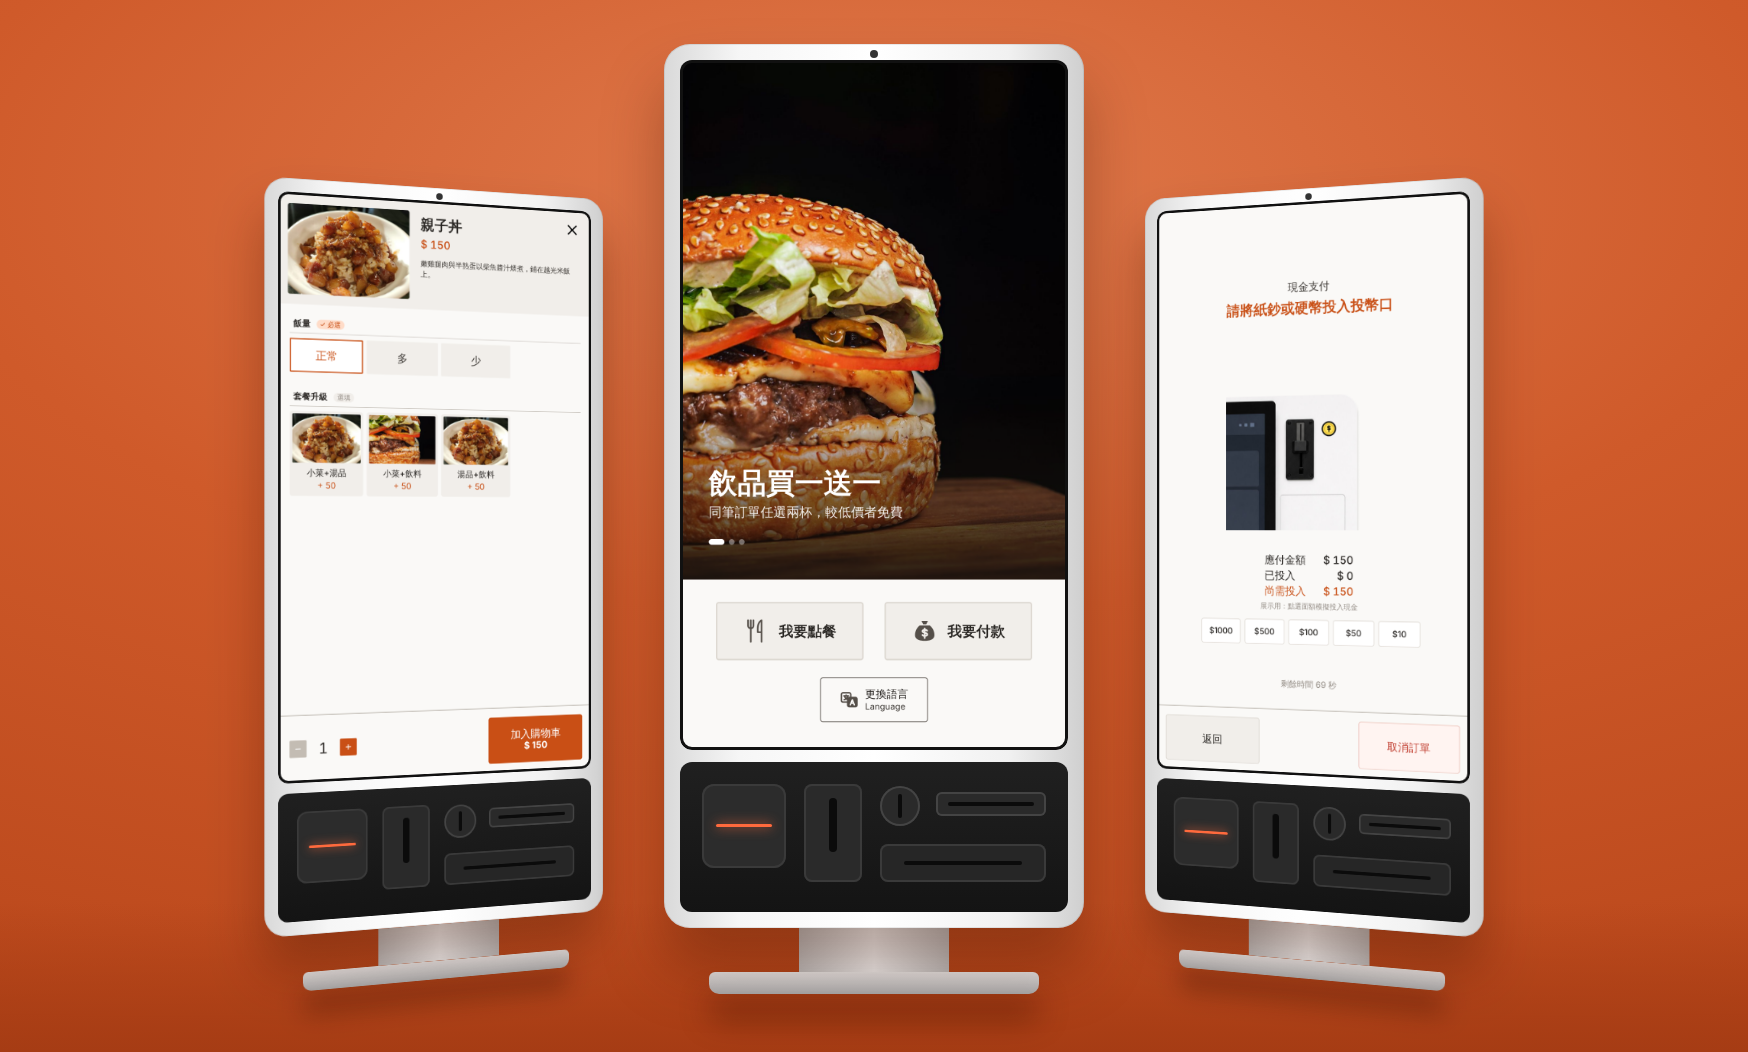
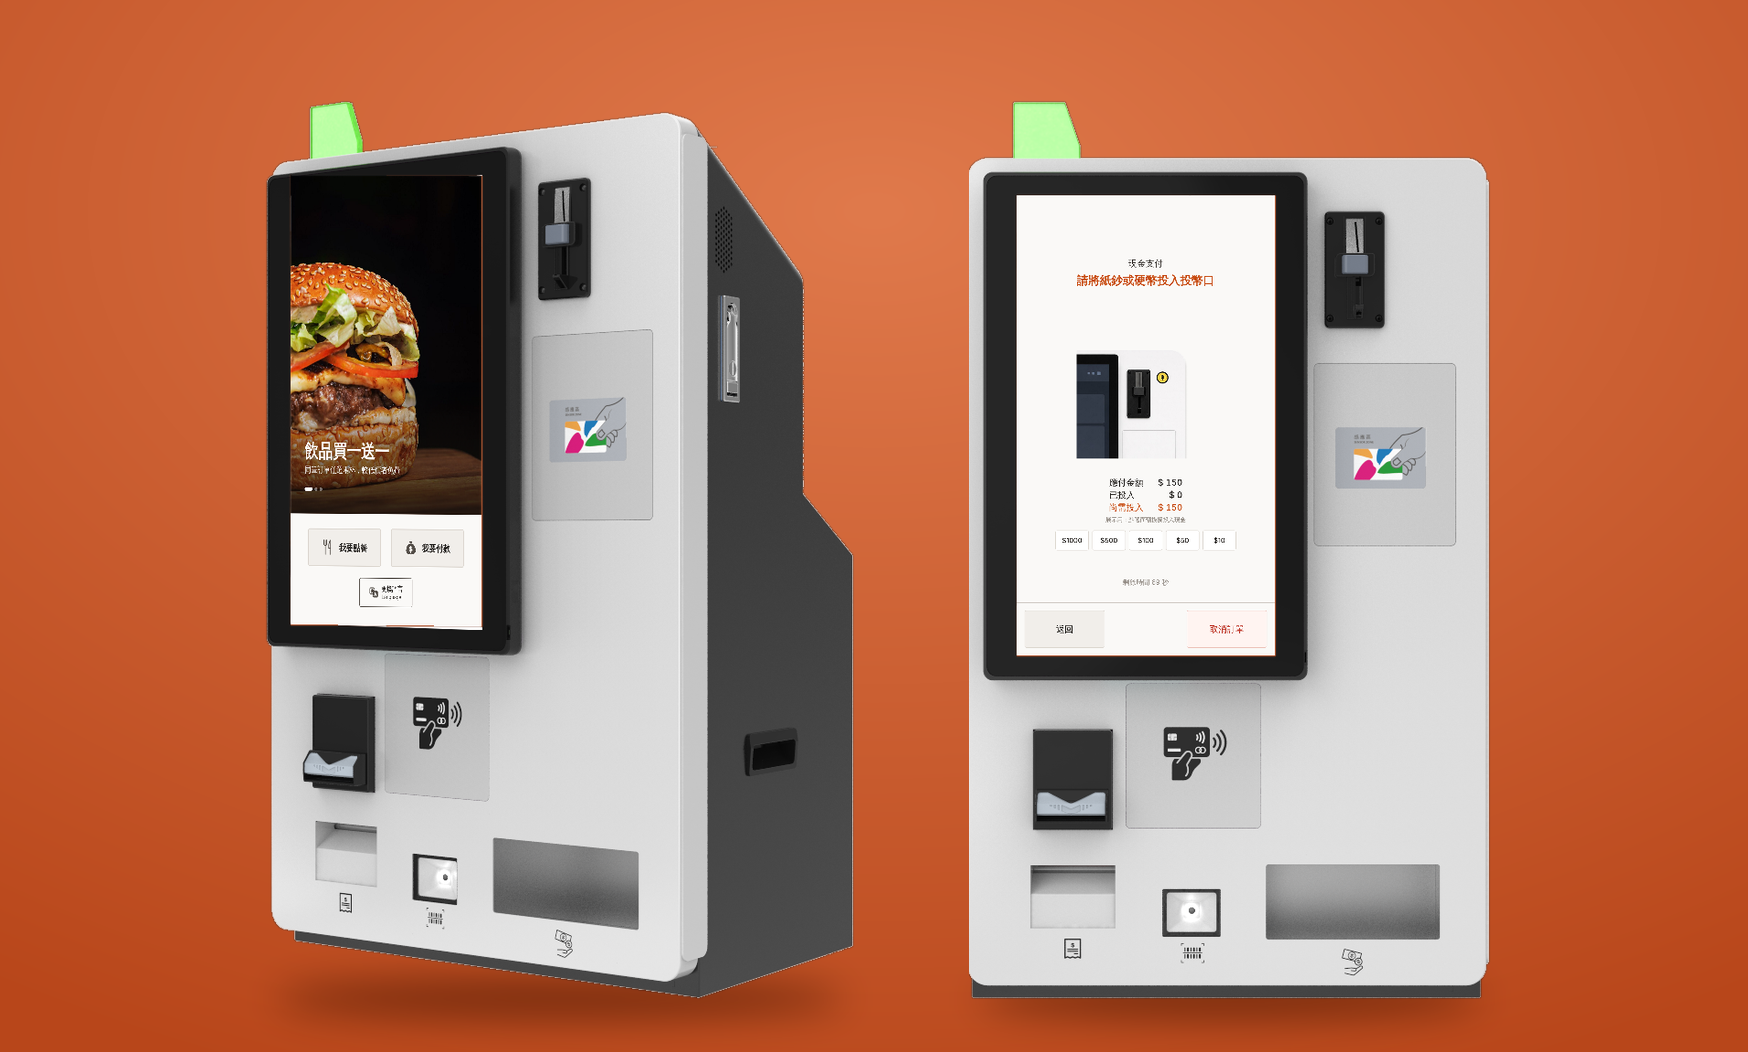
Covers: KIOSK uses the real countertop kiosk renders; KDS uses flat iPad-style tablets
Claude-Session: https://claude.ai/code/session_01NDe3p8GQ2HZ5WF8ct1RAfY

diff --git a/script.js b/script.js
@@ -11,7 +11,7 @@ function updateLanguageControls(){const toggle=document.querySelector('#language
 document.querySelector('#language-toggle')?.addEventListener('click',()=>setPortfolioLanguage(isEnglish()?'zh':'en'));
 const figmaURL='https://www.figma.com/design/S2sh6gtlIJ3JtDM7i3MEiN/portfolio?node-id=1654-18351';
 const repoURL='https://github.com/chi861008/researved-system';
-const visual=(name)=>name==='schedule'?'<div class="work-visual visual-schedule"><div class="arrow-circle" aria-hidden="true">↗</div><div class="schedule-mock"><div class="schedule-top"><strong>Weekly schedule</strong><span>October / 2026　↗</span></div><div class="calendar-week">'+['MON','TUE','WED','THU','FRI','SAT','SUN'].map((d,i)=>'<div class="calendar-day"><b>'+d+'</b>'+(i===0||i===2||i===4?'<span class="calendar-pill">Pilates 10:00</span>':'')+(i===1||i===3?'<span class="calendar-pill orange-pill">Private 14:00</span>':'')+'</div>').join('')+'</div></div></div>':name==='kiosk'?'<div class="work-visual visual-kiosk kiosk-image-cover"><img src="./kiosk-cover.png?v=2" alt="KIOSK 自助點餐介面與付款引導的設計畫面拼貼"><div class="arrow-circle" aria-hidden="true">↗</div></div>':'<div class="work-visual visual-kds kds-image-cover"><img src="./kds-cover.png?v=2" alt="KDS 個人概念設計封面：深色廚房訂單與分類畫面的介面拼貼"><div class="arrow-circle" aria-hidden="true">↗</div></div>';
+const visual=(name)=>name==='schedule'?'<div class="work-visual visual-schedule"><div class="arrow-circle" aria-hidden="true">↗</div><div class="schedule-mock"><div class="schedule-top"><strong>Weekly schedule</strong><span>October / 2026　↗</span></div><div class="calendar-week">'+['MON','TUE','WED','THU','FRI','SAT','SUN'].map((d,i)=>'<div class="calendar-day"><b>'+d+'</b>'+(i===0||i===2||i===4?'<span class="calendar-pill">Pilates 10:00</span>':'')+(i===1||i===3?'<span class="calendar-pill orange-pill">Private 14:00</span>':'')+'</div>').join('')+'</div></div></div>':name==='kiosk'?'<div class="work-visual visual-kiosk kiosk-image-cover"><img src="./kiosk-cover.png?v=3" alt="KIOSK 自助點餐介面與付款引導的設計畫面拼貼"><div class="arrow-circle" aria-hidden="true">↗</div></div>':'<div class="work-visual visual-kds kds-image-cover"><img src="./kds-cover.png?v=3" alt="KDS 個人概念設計封面：深色廚房訂單與分類畫面的介面拼貼"><div class="arrow-circle" aria-hidden="true">↗</div></div>';
 const card=p=>'<a class="work-card" href="#/case/'+p.id+'">'+visual(p.visual)+'<div class="work-info"><div><h3>'+p.title+'</h3><p>'+p.zh+'<br>'+p.type+'</p></div><div class="project-number">'+p.number+' / 03</div></div></a>';
 function home(){return '<section class="identity-hero"><div class="identity-wrap"><h1 class="visually-hidden">Yuan Chi — Product Manager &amp; Product Designer</h1><div class="identity-caption">PORTFOLIO / 2026</div><div class="identity-title"><span>Yuan</span><figure class="identity-photo"><img src="./yuan-chi-expressive-hero.png" alt="Yuan Chi 俏皮的黑白個人照片" fetchpriority="high" loading="eager" decoding="async"><i class="corner c1"></i><i class="corner c2"></i><i class="corner c3"></i><i class="corner c4"></i></figure><span>Chi</span></div><div class="identity-details"><p>Product Manager ×<br>Product Designer</p><p>Research / Strategy / Design<br>From insight to working product</p><p>Based in Taiwan<br><a href="mailto:chi861008@gmail.com">chi861008@gmail.com ↗</a></p></div></div></section><section class="intro-portrait wrap" id="about"><div class="intro-copy"><div class="eyebrow">ABOUT ME</div><h2>Hi<span class="orange">.</span></h2><p>我是產品設計師，正往產品經理發展。擅長把模糊的業務問題拆成可以驗證的假設，再用研究、設計與可運作的原型，幫團隊做出取捨。</p><p>過去曾參與餐飲 POS、自助點餐機、雲端報表及廚房顯示系統等產品。工作之外，我也喜歡從生活中的真實問題發起 Side Project，讓研究、設計與開發不只停留在工作中，也能實際應用於日常生活。</p><a class="intro-link" href="#/about">More about me <span>↗</span></a></div><div class="intro-visual"><img src="./yuan-chi-about-crossleg-slim.svg" alt="Yuan Chi 個人黑白形象照"><div class="orbit-word">DESIGN · RESEARCH · PRODUCT · BUILD ·</div></div></section><section class="section-space wrap" id="work"><div class="section-head selected-head"><div><div class="eyebrow">SELECTED WORK / 2026</div><h2>Works record<span class="orange">.</span></h2></div></div><div class="work-grid identity-works">'+projects.map(card).join('')+'</div></section><section class="dark-band"><div class="wrap"><div class="eyebrow">THE WAY I THINK</div><h2>Fall in love with the problem, not the solution.</h2><a href="mailto:chi861008@gmail.com">Let’s connect ↗</a></div></section>';}
 function aboutSection(){return '<section class="section-space wrap" id="about"><div class="about-mini"><div><div class="eyebrow">02 / About</div><h2>Curious by nature.<br>Builder by choice.</h2></div><div><p>我的背景跨越工業設計、使用者研究與數位產品設計，做過餐飲 POS、自助點餐機與廚房顯示系統。現在我往產品經理發展：定義問題、排定優先順序、用最小成本驗證，必要時用 AI 輔助開發自己把原型做出來。</p><p>我喜歡定義問題、串聯不同線索、提出解法，以及把複雜的邏輯整理得讓人容易理解。</p><div class="skills"><span class="chip">Product Discovery</span><span class="chip">Prioritization</span><span class="chip">UX Research</span><span class="chip">Product Design</span><span class="chip">Prototyping</span><span class="chip">AI-assisted Development</span></div></div></div></section>';}

diff --git a/index.html b/index.html
@@ -12,7 +12,7 @@
   <link href="https://fonts.googleapis.com/css2?family=DM+Sans:wght@400;500;600;700&family=Noto+Sans+TC:wght@400;500;600;700;800&display=swap" rel="stylesheet">
   <link rel="preload" as="image" href="./yuan-chi-expressive-hero.png" fetchpriority="high" />
   <link rel="preload" as="image" href="./yuan-chi-hero-flip-back.png" />
-  <link rel="stylesheet" href="./style.css?v=20261029zs" />
+  <link rel="stylesheet" href="./style.css?v=20261029zt" />
 </head>
 <body>
   <header class="nav">
@@ -29,7 +29,7 @@
     <div><strong>Yuan Chi Chang</strong><span>UX × Product Thinking × Building</span></div>
     <div class="footer-right"><span>Made with curiosity, 2026.</span><a href="#/">Back to top ↑</a></div>
   </footer>
-  <script src="./english.js?v=20261029zs"></script>
-  <script src="./script.js?v=20261029zs"></script>
+  <script src="./english.js?v=20261029zt"></script>
+  <script src="./script.js?v=20261029zt"></script>
 </body>
 </html>
